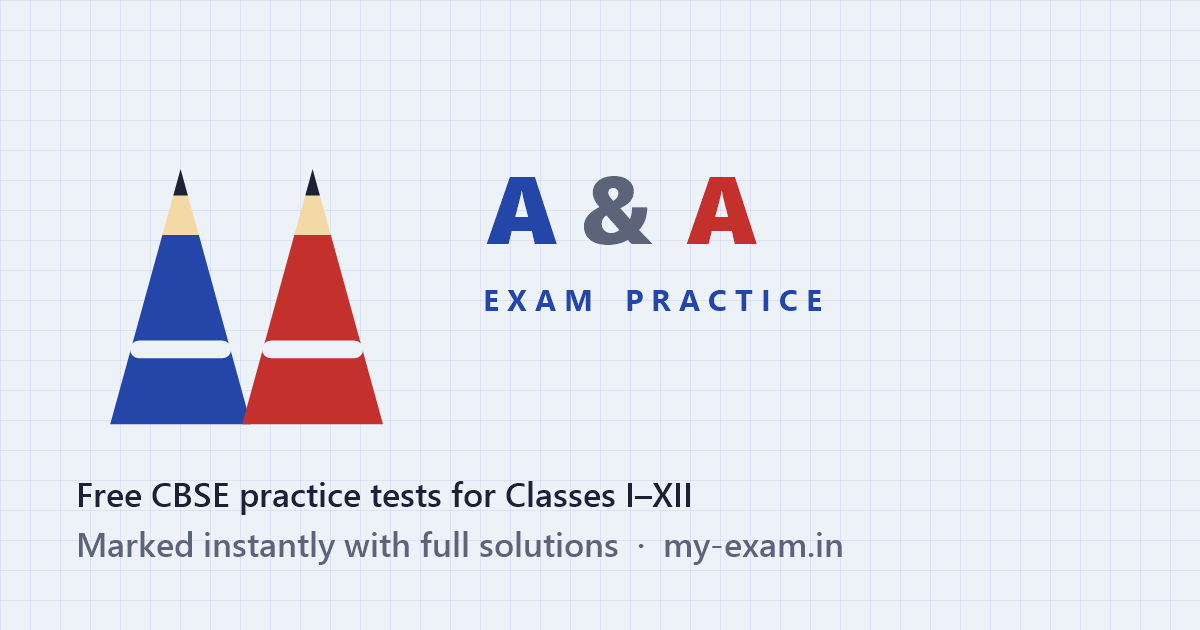
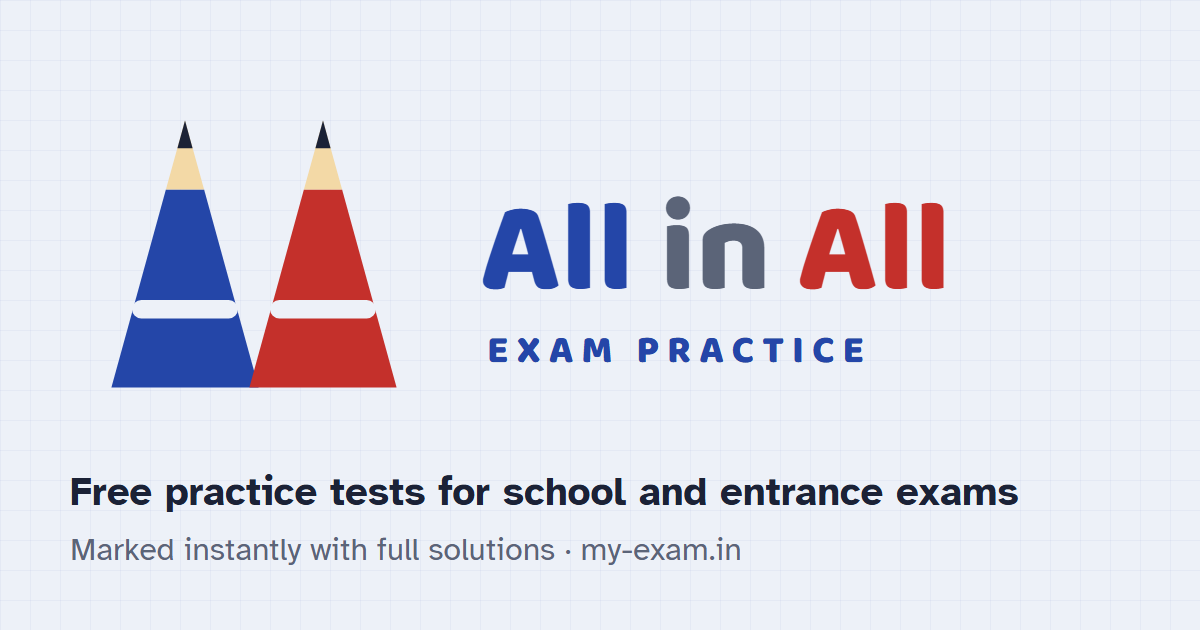
Add files via upload

diff --git a/index.html b/index.html
@@ -4,10 +4,10 @@
 <meta charset="utf-8">
 <meta name="viewport" content="width=device-width, initial-scale=1">
 <meta name="description" content="Free CBSE practice tests for Classes I–XII, marked instantly with full solutions.">
-<title>A &amp; A Exam Practice</title>
+<title>All in All Exam Practice</title>
 <meta property="og:type" content="website">
-<meta property="og:site_name" content="A &amp; A Exam Practice">
-<meta property="og:title" content="A &amp; A Exam Practice – free CBSE practice tests">
+<meta property="og:site_name" content="All in All Exam Practice">
+<meta property="og:title" content="All in All Exam Practice – free school and entrance exam practice tests">
 <meta property="og:description" content="Free CBSE practice tests for Classes I–XII, marked instantly with full solutions.">
 <meta property="og:url" content="https://my-exam.in/">
 <meta property="og:image" content="https://my-exam.in/og-image.png">
@@ -245,7 +245,7 @@ sup,sub{font-size:.7em}
   <header class="top">
     <div>
       <p class="eyebrow">Online practice · auto-marked</p>
-      <h1><a href="#home" class="logolink"><svg class="logo" viewBox="0 0 430 160" role="img" aria-label="All &amp; All Exam Practice – home">
+      <h1><a href="#home" class="logolink"><svg class="logo" viewBox="0 0 430 160" role="img" aria-label="All in All Exam Practice – home">
         <polygon class="lg-ink" points="41.7,52 58.3,52 82,138 18,138"/>
         <polygon class="lg-wood" points="50,22 58.3,52 41.7,52"/>
         <polygon class="lg-lead" points="50,22 53.3,34 46.7,34"/>
@@ -254,7 +254,7 @@ sup,sub{font-size:.7em}
         <polygon class="lg-wood" points="110,22 118.3,52 101.7,52"/>
         <polygon class="lg-lead" points="110,22 113.3,34 106.7,34"/>
         <line class="lg-bar" x1="91" y1="104" x2="129" y2="104"/>
-        <text x="176" y="84" font-size="56"><tspan class="lg-ink">All</tspan> <tspan class="lg-muted">&amp;</tspan> <tspan class="lg-red">All</tspan></text>
+        <text x="176" y="84" font-size="56"><tspan class="lg-ink">All</tspan> <tspan class="lg-muted">in</tspan> <tspan class="lg-red">All</tspan></text>
         <text class="lg-ink" x="179" y="116" font-size="17" letter-spacing="3.5">EXAM PRACTICE</text>
       </svg></a></h1>
       <p class="lede">Free practice tests for school and entrance exams, marked instantly with full solutions.</p>
@@ -1202,7 +1202,7 @@ function finish(auto){
   const topicRows=tps.map((x,k)=>`<tr><td>${esc(x.t)}</td><td class="n">${+x.v.g.toFixed(1)} / ${x.v.t}</td><td class="n">${x.pct}%</td><td class="n">${x.pct<75?`<button type="button" class="small" data-practise="${k}">Practise</button>`:'<span class="ok">✓</span>'}</td></tr>`).join('');
   const lvlRows=LEVELS.filter(l=>byL[l]).map(l=>`<tr><td><span class="lvl l-${l}"></span>${LNAME[l]}</td><td class="n">${byL[l].c} / ${byL[l].n}</td><td class="n">${Math.round(byL[l].g/byL[l].t*100)}%</td></tr>`).join('');
   const nWrong=P.qs.filter(q=>q.got<q.marks).length;
-  const shareTxt=`I scored ${g}/${tot} (${pct}%) in a Class ${P.klass} ${P.subject} practice paper on A & A Exam Practice. Try it free: https://my-exam.in`;
+  const shareTxt=`I scored ${g}/${tot} (${pct}%) in a Class ${P.klass} ${P.subject} practice paper on All in All Exam Practice. Try it free: https://my-exam.in`;
   const nf=nFlag();
   const review=P.qs.map((q,i)=>`<div class="q" data-ok="${q.got===q.marks?1:0}" data-flagged="${FLAG[i]?1:0}"><span class="qn">${q.no}</span><div class="qbody"><span class="qtopic"><span class="lvl l-${q.level}"></span>${q.topic} · ${q.kind==='mcq'?'MCQ':LNAME[q.level]}${FLAG[i]?' · <span class="flagtag">Flagged</span>':''}</span><div>${q.text}</div>${q.parts[0].type==='choice'?`<div class="hint" style="margin:0">${q.parts[0].options.map((o,j)=>`(${'abcd'[j]}) ${o}`).join(' &nbsp; ')}</div>`:''}${partsReview(q)}<p class="sol"><b>${pm()?'Working':'Explanation'}:</b> ${q.sol}</p><button type="button" class="small report" data-report="${i}">Report a problem with this question</button></div><span class="mark">${+q.got.toFixed(1)}/${q.marks}</span></div>`).join('');
   $('#results').innerHTML=`
@@ -1301,7 +1301,7 @@ function printPaperHtml(){
     else inner=q.parts.map(p=>`<div class="ppart">${p.q?p.q+(q.parts.length>1?` <span class="qm">[${p.marks}]</span>`:''):''}${p.type==='select'?`<div class="hint" style="margin:2px 0 0">(${p.options.map(esc).join(' / ')})</div>`:''}${'<div class="aline"></div>'.repeat(q.parts.length>1?1:lines(q))}</div>`).join('');
     return `<div class="pq"><span class="pn">${q.no}.</span><div class="qbody"><div>${q.text}</div>${inner}</div><span class="qm">[${q.marks}]</span></div>`;};
   const key=`<section class="pkey"><h2>Answer key</h2><p class="hint" style="margin:4px 0 0">${esc(P.subject)} – Class ${esc(P.klass)} · ${total} marks</p><ol>${P.qs.map(q=>`<li value="${q.no}"><b>${q.parts.map(p=>(q.parts.length>1&&p.q?p.q.split(' ')[0]+' ':'')+answerText(p)).join('; ')}</b><div class="sol">${q.sol}</div></li>`).join('')}</ol></section>`;
-  return `<header class="phead"><p class="brand">A &amp; A Exam Practice · my-exam.in</p><h2>${esc(P.subject)} – Class ${esc(P.klass)}</h2>${P.topicsLabel?`<p class="hint" style="margin:2px 0 0">Chapters: ${esc(P.topicsLabel)}</p>`:''}<div class="meta"><span>Time: ${P.duration} minutes</span><span>Maximum marks: ${total}</span></div></header>
+  return `<header class="phead"><p class="brand">All in All Exam Practice · my-exam.in</p><h2>${esc(P.subject)} – Class ${esc(P.klass)}</h2>${P.topicsLabel?`<p class="hint" style="margin:2px 0 0">Chapters: ${esc(P.topicsLabel)}</p>`:''}<div class="meta"><span>Time: ${P.duration} minutes</span><span>Maximum marks: ${total}</span></div></header>
    <div class="who"><span>Name:</span><span>Roll no.:</span><span>Date:</span></div>
    <ol class="instr"><li>This paper has ${P.qs.length} questions in ${secs.length} section${secs.length>1?'s':''}. All questions are compulsory.</li>${secs.map(x=>`<li>Section ${x.s.letter}: ${x.qs.length} ${x.s.kind==='mcq'?'multiple-choice':LNAME[x.s.level].toLowerCase()} question${x.qs.length>1?'s':''} of ${x.each} mark${x.each>1?'s':''} each.</li>`).join('')}<li>${secs.some(x=>x.s.kind==='mcq')?'For multiple-choice questions, circle the correct option. ':''}Write the other answers in the space given.${maths?' Use π = 22/7 where needed.':''}${P.subject==='Hindi'?' उत्तर हिंदी में लिखें।':''}</li></ol>
    ${secs.map(x=>`<section class="section"><div class="sechead"><h3>Section ${x.s.letter} – ${x.s.name}</h3><small>${x.qs.length} × ${x.each} = ${x.marks} marks</small></div>${x.qs.map(qP).join('')}</section>`).join('')}

diff --git a/README.md b/README.md
@@ -1,4 +1,4 @@
-# A & A Exam Practice
+# All in All Exam Practice
 
 Timed CBSE practice papers, generated in the browser and marked instantly.
 
